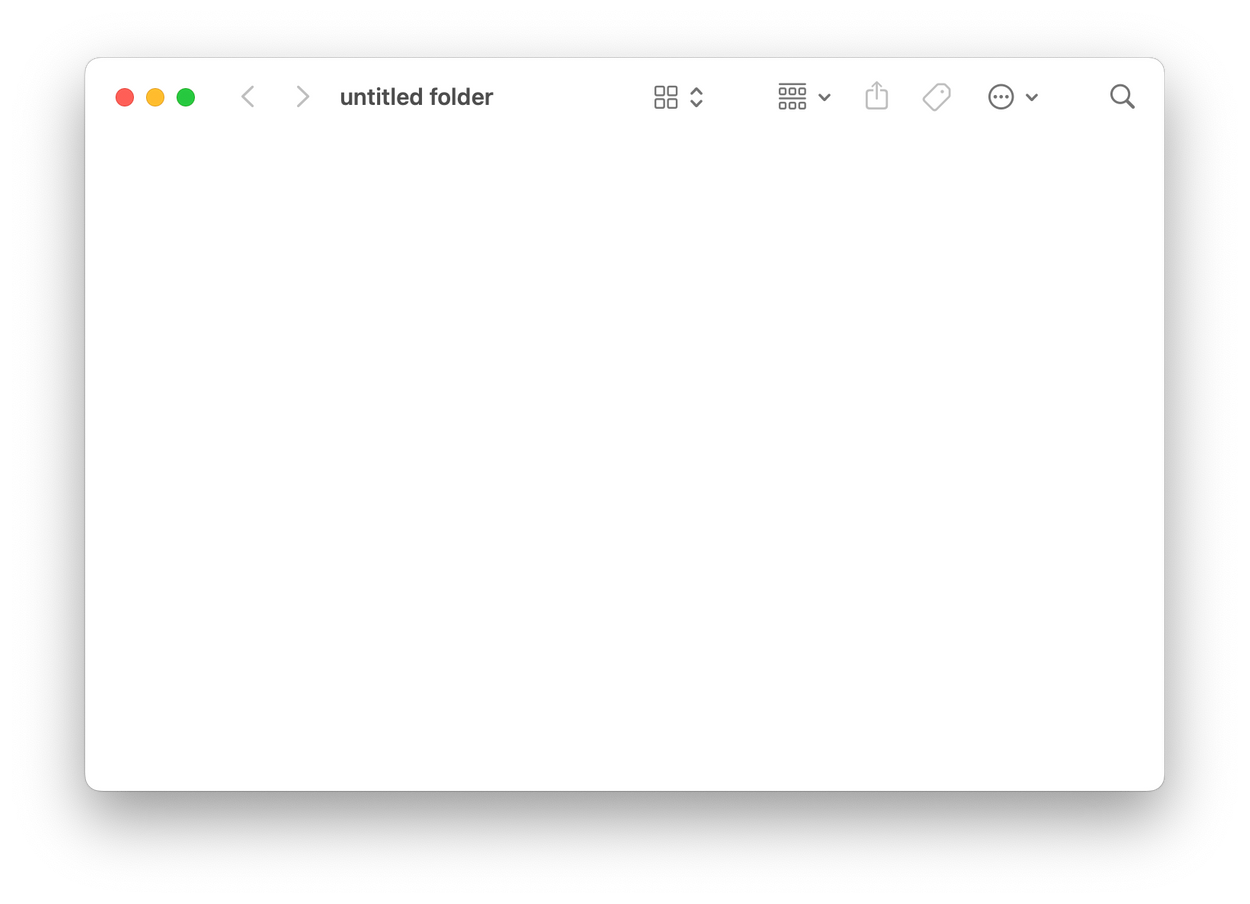
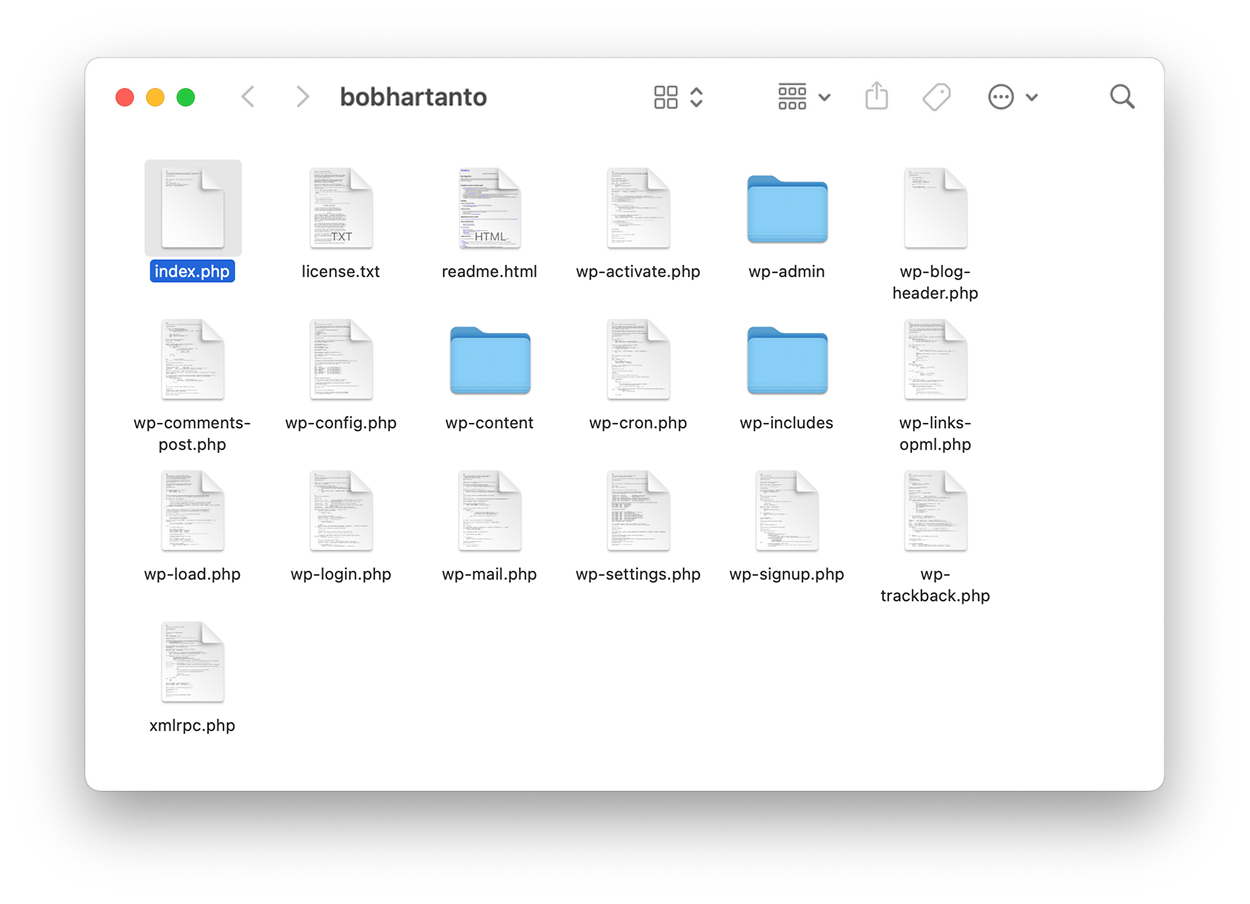
up

diff --git a/app/pages/index.vue b/app/pages/index.vue
@@ -55,8 +55,14 @@
       </div>    
       
       <div class="col-start-3 col-span-2 text-xl leading-relaxed ">
-        <p class="mt-[15px]">Bobby’s experience spans agencies, corporate enterprises, startups, and global consultancies, culminating in a highly adaptable approach to design and problem solving.
-        Bobby’s experience spans agencies, corporate enterprises, startups, and global consultancies, culminating in a highly adaptable approach to design and problem solving. At Paton.dev, he designed (bublibu) a food delivery app that delivered the same user experience as Gofood or GrabFood without the fleet. built on third-party courier APIs to match the experience at a fraction of their operating cost.
+        <p class="mt-[15px]">My experience spans agencies, corporate enterprises, startups, and global consultancies from 2014 to 2026, Culminating in a highly adaptable approach to design and problem solving. 
+          </p>
+          <p class="mt-[15px]">
+          Since my time in college, I’ve been obsessed with HTML and CSS. My first introduction to websites was when I tried to build an e-commerce store using Joomla on localhost. From there, my interest in websites grew, and I went on to experiment with other CMS platforms such as Drupal and WordPress.
+          </p>
+
+          <p class="mt-[15px]">
+            Although I started my career as a graphic designer at Mullen Lowe, my interest in interaction design and UI/UX continued to grow. Eventually, in 2016, I decided to shift my career to become a UI/UX Designer with joining Digital Transformation division of Astragraphia.
         </p>
       </div>
           
@@ -119,21 +125,24 @@
         </div>
       </div>
     </section>
-    <!-- bublibu section -->
+    
+    <!--Mokas -->
      <section class="grid grid-cols-1 md:grid-cols-6 gap-[30px]">
       <!-- Merged Column 1 & 2 -->
-      <div class="col-span-1 md:col-span-2">
-        <div class="flex flex-col h-full">
-          <div class="flex items-start justify-start relative pr-10">
-            <img src="/images-/bublibuu.png" alt="bublibu image" class="w-[90%] h-auto" />
-          </div>
+      <div class="col-span-1 md:col-span-1 md:col-start-2">
+        <div class="flex flex-col h-full ">
+          <div class="flex items-center gap-[15px] text-[#333]">
+              <img src="/images-/receipt.png" alt="Moka" class="w-[50%] h-auto" />
+            </div>
         </div>
       </div>
 
       <!-- Column 3 -->
-      <div class="col-span-1 md:col-span-2 h-full gap-[30px]">
+      <div class="col-span-1 md:col-span-2 h-full gap-[30px] ">
         <div class="text-xl leading-relaxed pr-5">
-          <p class="py-5 mt-[15px]">At Paton.dev, he designed (bublibu) a food delivery app that delivered the same user experience as Gofood or GrabFood without the fleet. built on third-party courier APIs to match the experience at a fraction of their operating cost. At Paton.dev, he designed (bublibu) a food delivery app that delivered the same user experience as Gofood or GrabFood without the fleet. built on third-party courier APIs to match the experience at a fraction of their operating cost. At Paton.dev, he designed (bublibu) a food delivery app that delivered the same user experience as Gofood or GrabFood without the fleet. built on third-party courier APIs to match the experience at a fraction of their operating cost.</p>
+          <p class="py-5 mt-[15px]">Moka POS was my next chapter after Astragraphia. This is where I got my first real taste of startup life most of my coworkers were young and full of energy, and I found myself genuinely caught up in that same enthusiasm for building. Moka was growing fast at the time, and I got to be part of some meaningful work: the English to Indonesian localization, the Table Management feature, and a full redesign of Moka's receipt.
+          </p>
+          
           </div>
       </div>
 
@@ -144,6 +153,52 @@
         </a>
       </div>
     </section>
+    
+    <!-- Mokas portfolio -->
+    <section class="grid grid-cols-1 md:grid-cols-6 gap-[30px]">
+      <div class="col-span-1 md:col-span-1">
+      <img src="/images-/moka-01.png" alt="2026s2 illustration" class="w-[80%] h-auto" />
+      </div>
+      <div class="col-span-1 md:col-span-1 md:col-start-3">
+      <img src="/images-/moka-02.png" alt="2026s2 illustration" class="w-[80%] h-auto" />
+      </div>
+      <div class="col-span-1 md:col-span-1">
+      <img src="/images-/moka-04.png" alt="2026s2 illustration" class="w-[80%] h-auto" />
+      </div>
+      <div class="col-span-1 md:col-span-1 md:col-start-6">
+      <img src="/images-/moka-03.png" alt="2026s2 illustration" class="w-[80%] h-auto" />
+      </div>
+    </section>
+
+
+    <!-- Bublibu -->
+     <section class="grid grid-cols-1 md:grid-cols-6 gap-[30px]">
+      <!-- Merged Column 1 & 2 -->
+      <div class="col-span-1 md:col-span-1">
+        <div class="flex flex-col h-full">
+          <div class="flex items-start justify-start relative pr-10 mt-[15px]">
+            <img src="/images-/bublibuu.png" alt="bublibu image" class="w-[90%] h-auto" />
+          </div>
+        </div>
+      </div>
+
+      <!-- Column 3 -->
+      <div class="col-span-1 md:col-span-2 md:col-start-3 h-full gap-[30px]">
+        <div class="text-xl leading-relaxed pr-5">
+
+          <p class="py-5 mt-[15px]">
+            Paton.dev, he designed (bublibu) a food delivery app that delivered the same user experience as Gofood or GrabFood without the fleet. built on third-party courier APIs to match the experience at a fraction of their operating cost. At Paton.dev, he designed (bublibu) a food delivery app that delivered the same user experience as Gofood or GrabFood without the fleet. built on third-party courier APIs to match the experience at a fraction of their operating cost. At Paton.dev, he designed (bublibu) a food delivery app that delivered the same user experience as Gofood or GrabFood without the fleet. built on third-party courier APIs to match the experience at a fraction of their operating cost.</p>
+          </div>
+      </div>
+
+      <div class="col-span-1 md:col-start-6 md:col-span-1 flex items-center justify-center w-full">
+        <a href="#" class="text-[16px] leading-relaxed no-underline text-inherit block text-center">
+          <img src="/images-/file-icon.png" alt="file icon" class="mb-2 mx-auto" />
+          <p>Bobby-hartanto.cv</p>
+        </a>
+      </div>
+    </section>
+    
   
 
     <!-- Bottom Grid Section -->